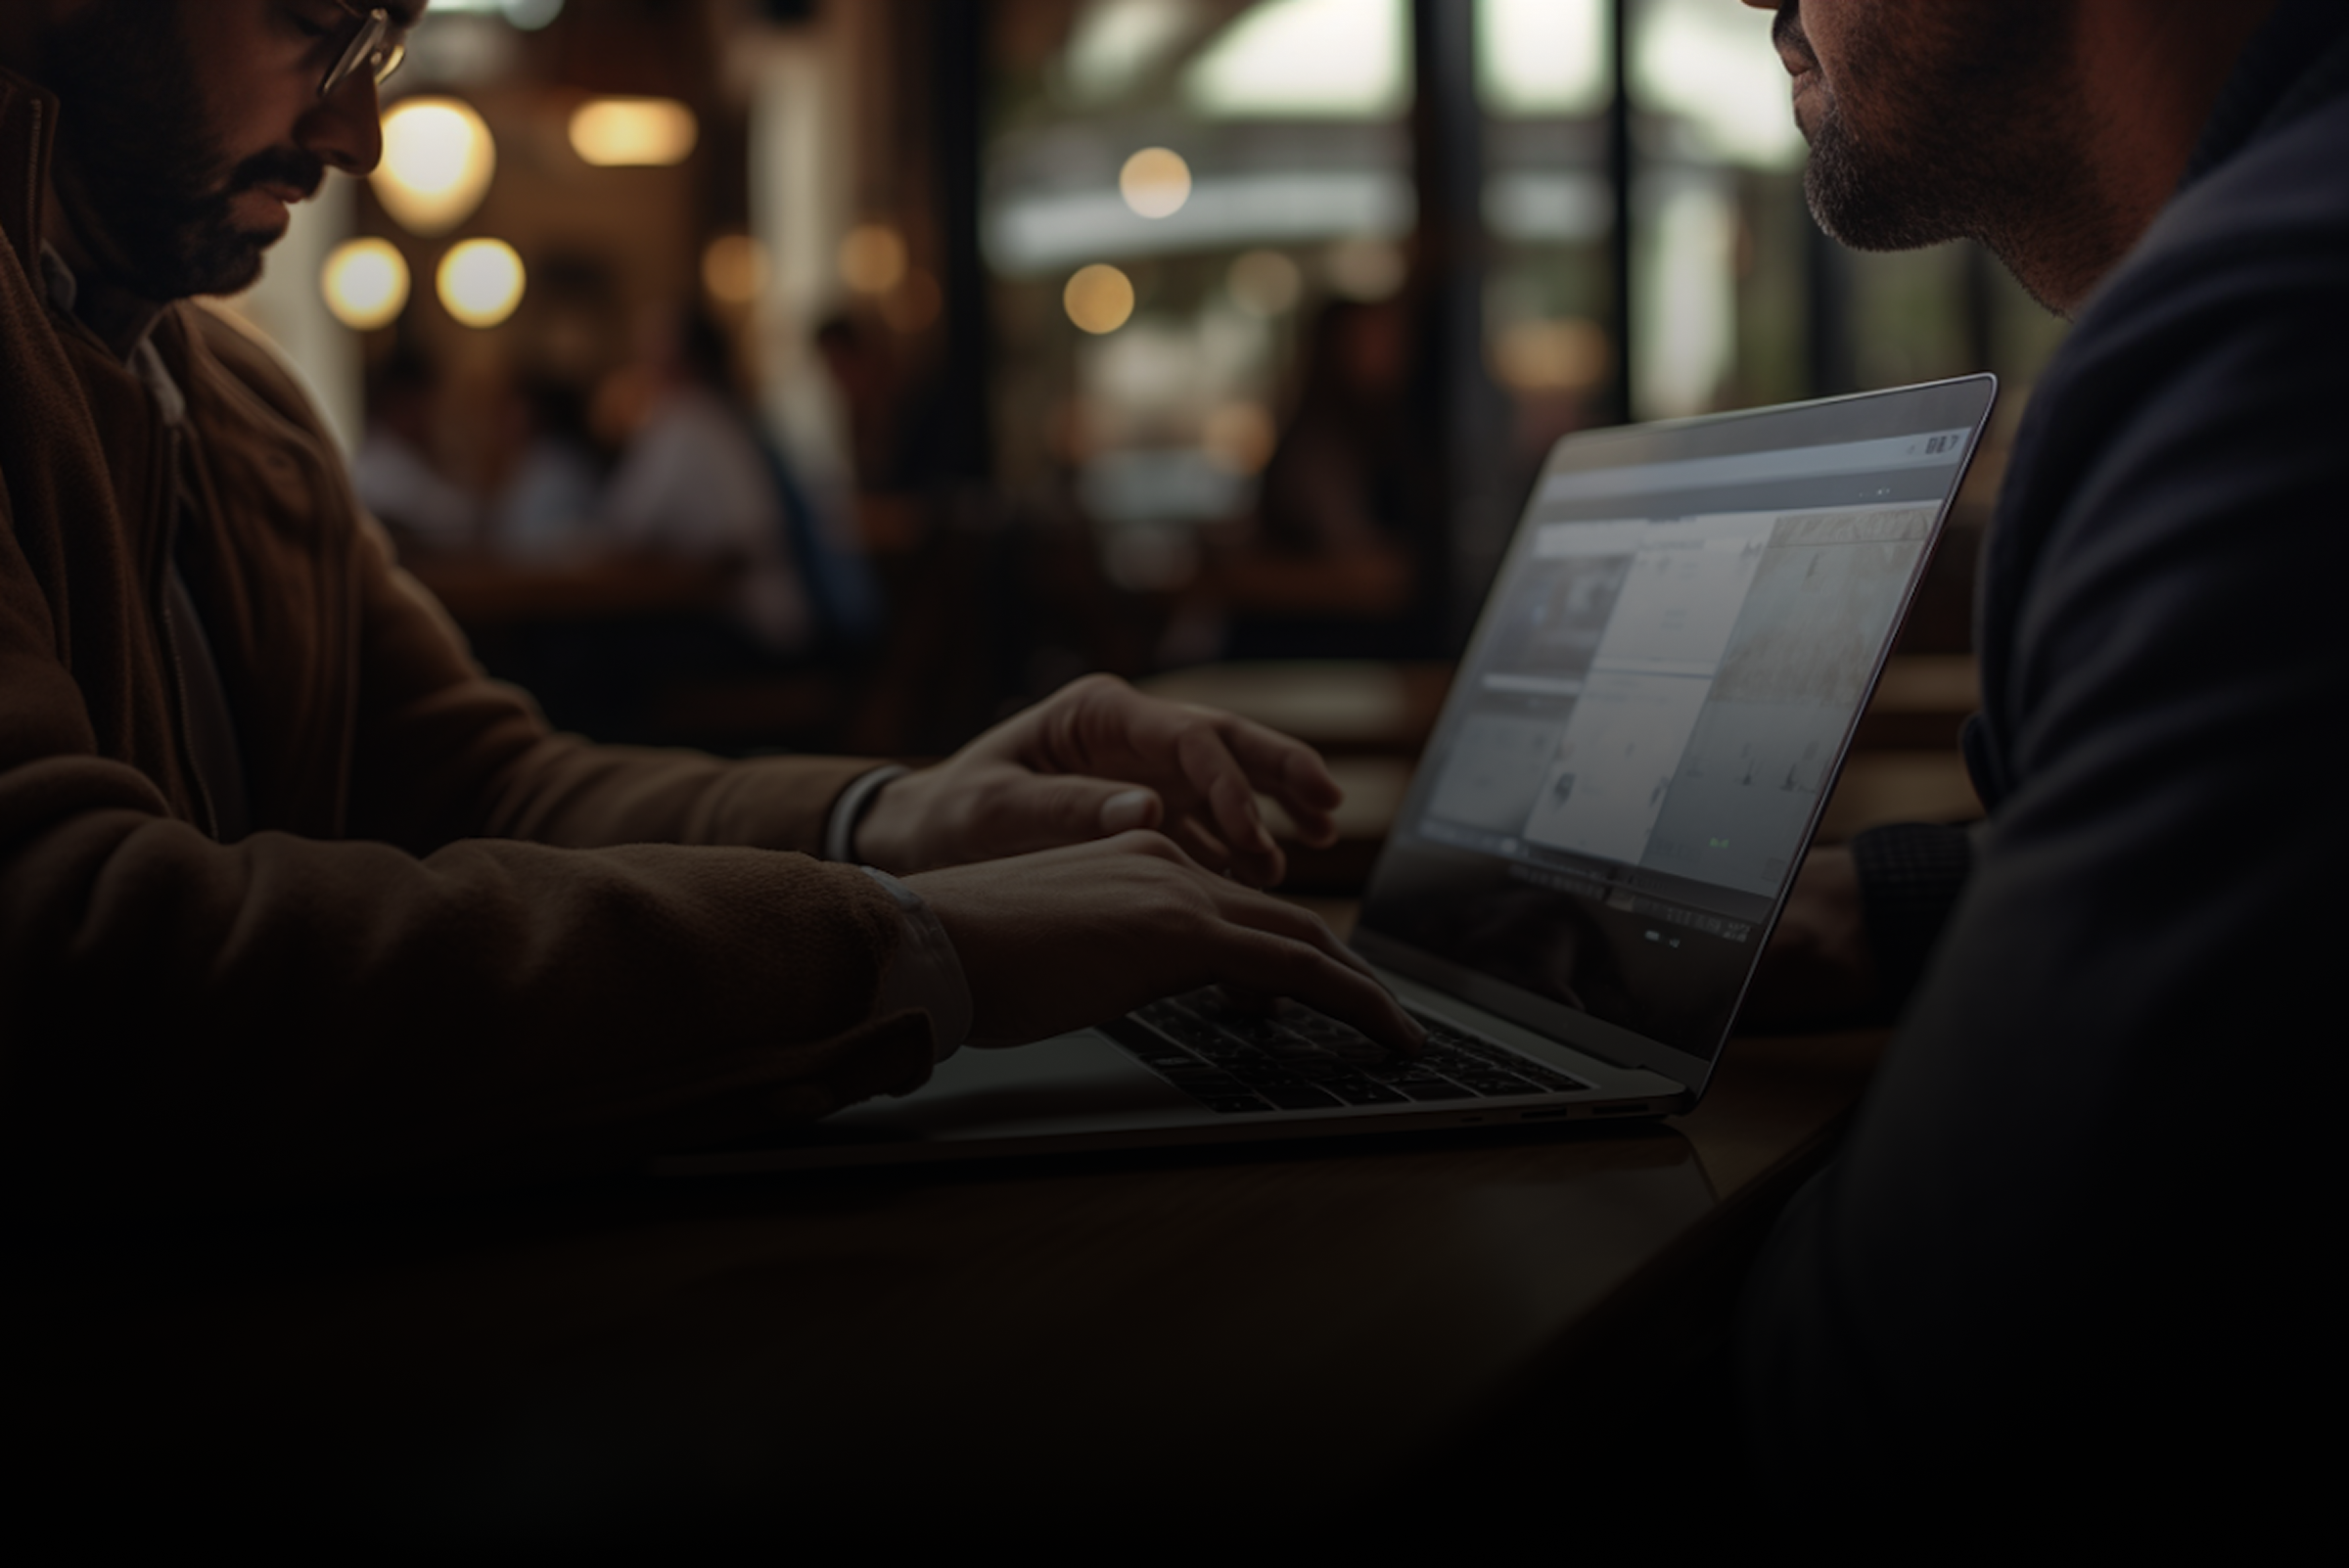
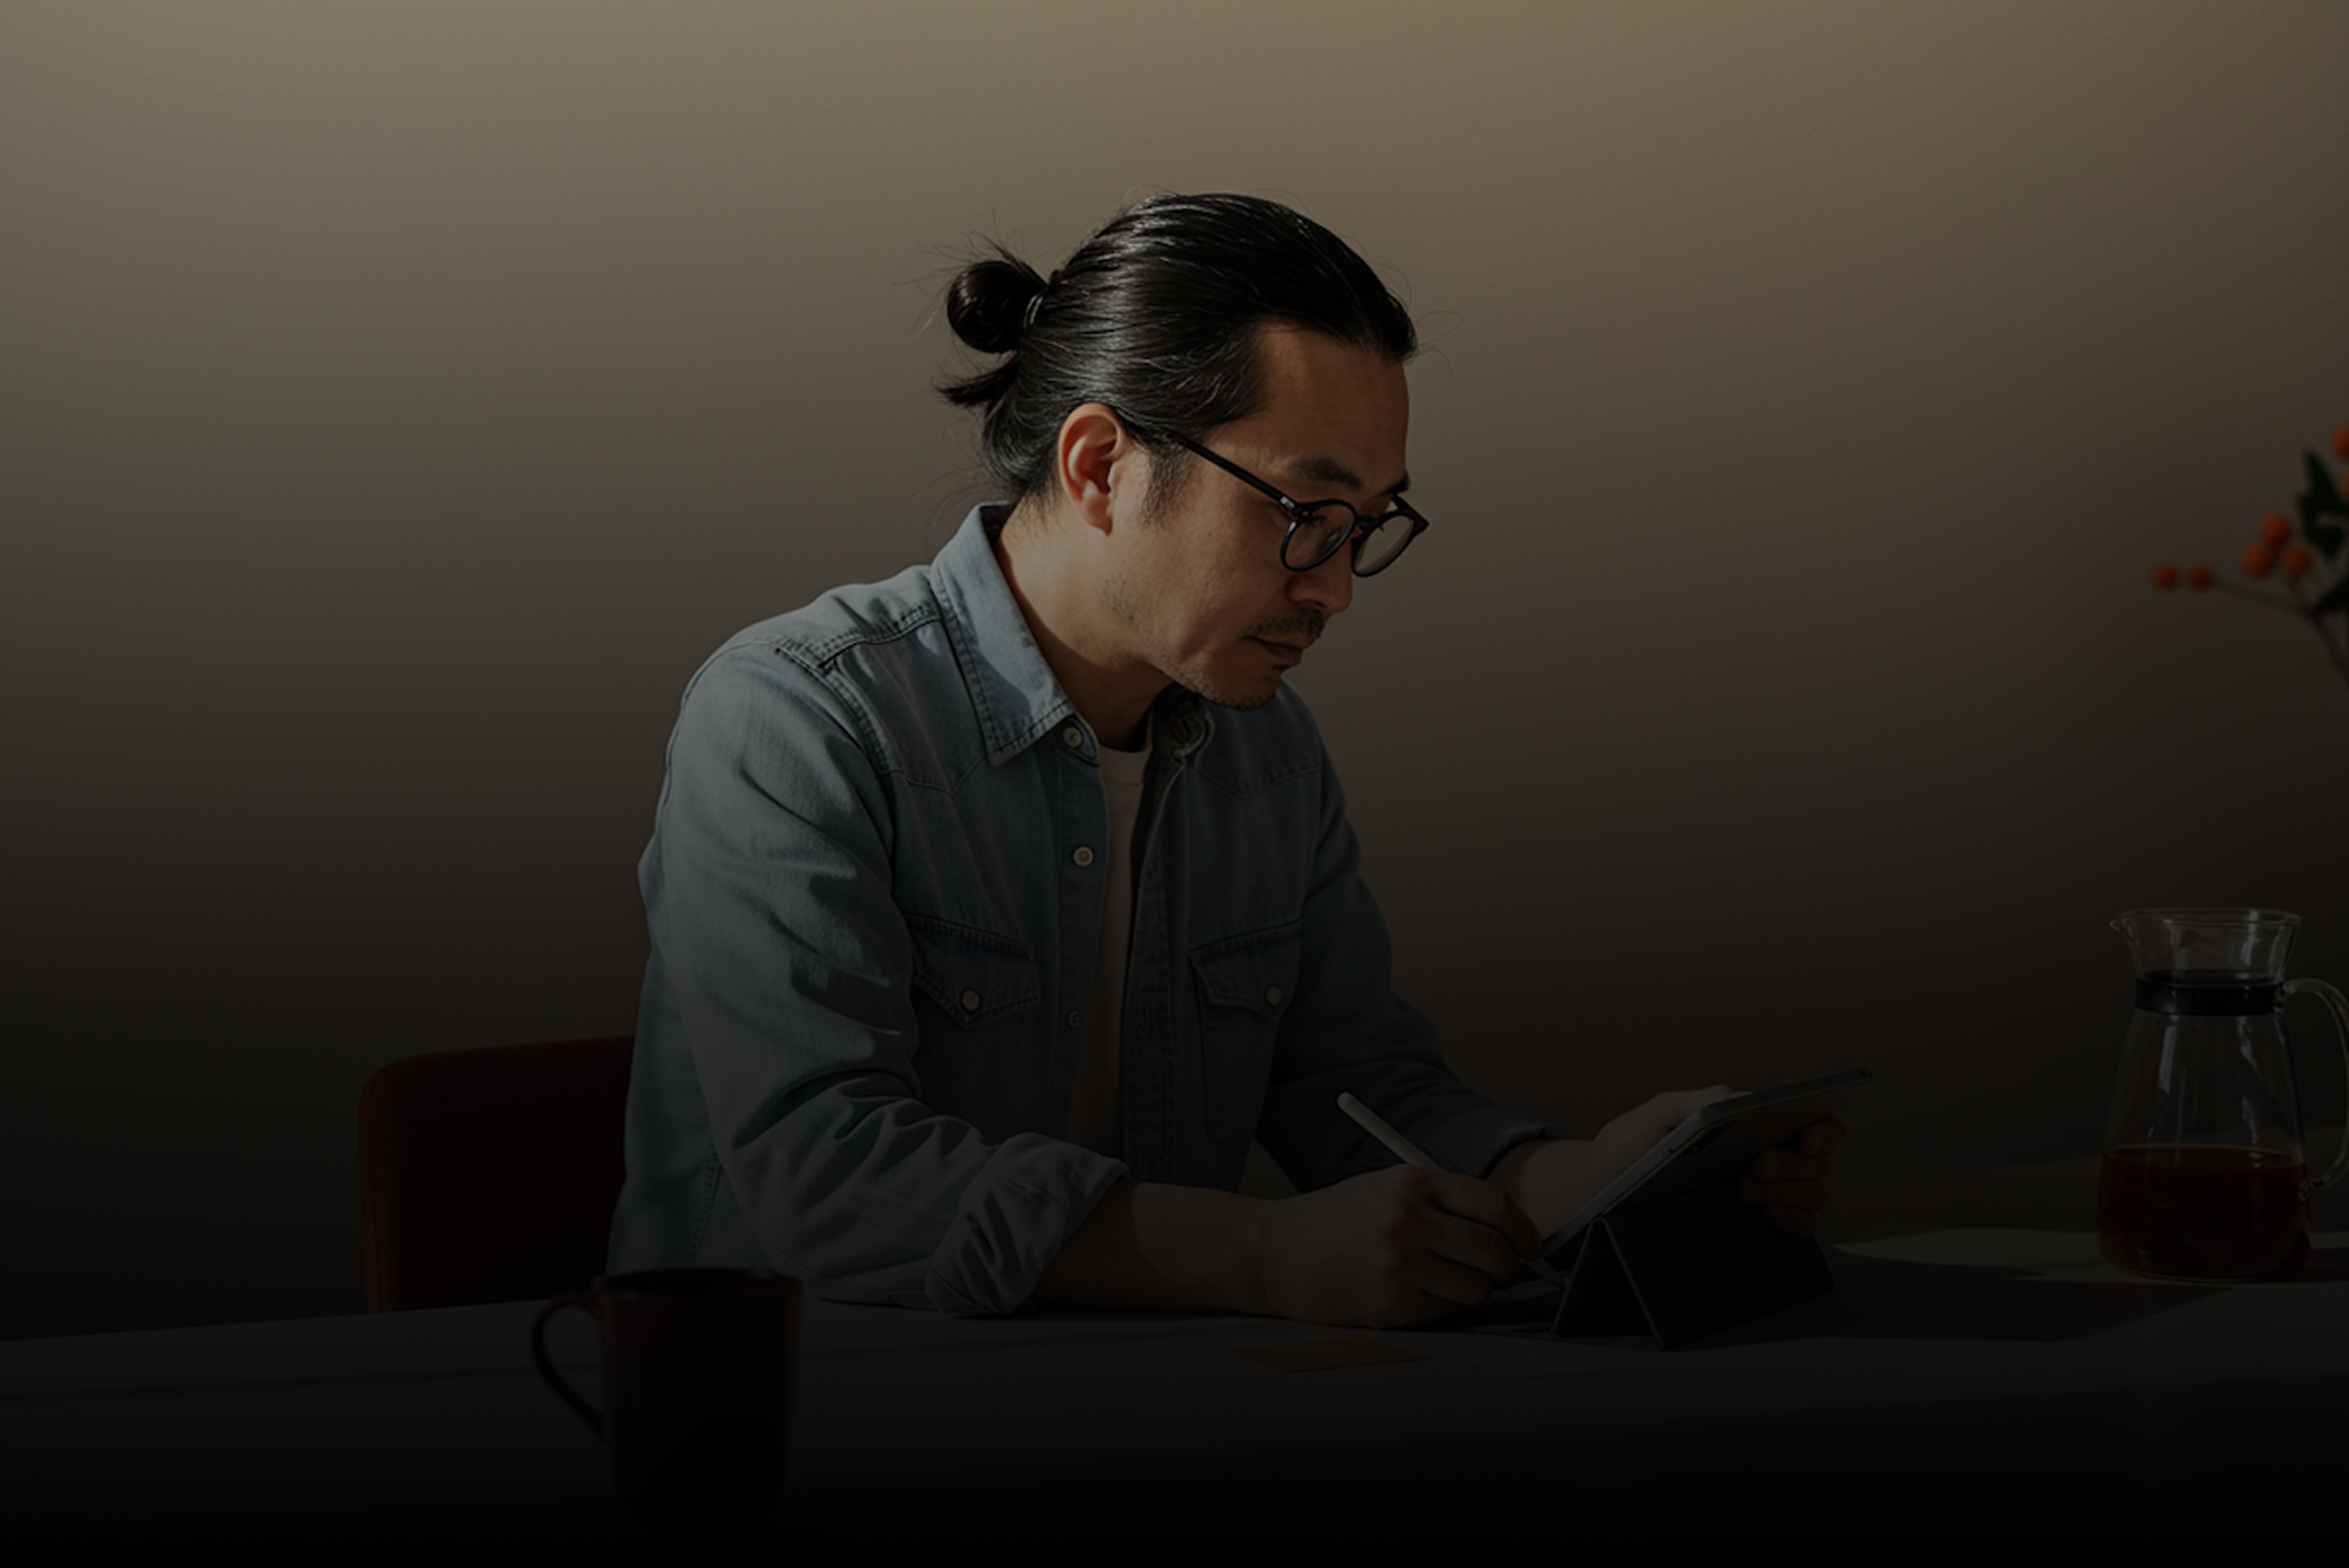
fixed image header bug

diff --git a/src/components/sections/Testimonial.jsx b/src/components/sections/Testimonial.jsx
@@ -5,7 +5,15 @@ import ImagePlaceholder from '../ui/ImagePlaceholder'
 import { getTestimonialProgressTransition, testimonialSlideTransition } from '@/motion'
 import { testimonials } from '../../data/testimonial'
 import { cn } from '@/lib/cn'
-import { focusRing, sectionPy, stackGapContent, testimonialImage } from '@/lib/sectionStyles'
+import { focusRing, gridGapLg, sectionPy, testimonialImage } from '@/lib/sectionStyles'
+
+const testimonialLayout = cn(
+  'flex flex-col',
+  gridGapLg,
+  'lg:flex-row lg:items-stretch',
+)
+const testimonialImageCol = 'w-full lg:w-5/12 lg:max-w-[480px] lg:shrink-0'
+const testimonialContentCol = 'flex min-w-0 flex-1 flex-col gap-6 md:gap-7 lg:justify-between'
 
 const tabButtonClass = cn('flex-1 cursor-pointer rounded-full py-2.5 sm:py-3', focusRing)
 const progressFillClass = 'pointer-events-none absolute inset-0 rounded-full bg-olive-500'
@@ -73,18 +81,33 @@ export default function Testimonial() {
   return (
     <section aria-labelledby="testimonial-heading" className={cn('bg-olive-100', sectionPy)}>
       <Container>
-        <div className={cn('flex flex-col', stackGapContent)}>
-          <AnimatePresence mode="wait">
-            <Slide id={active.id}>
-              <ImagePlaceholder capTabletHeight={false} src={active.image} label={active.imageLabel} className={testimonialImage} />
-            </Slide>
-          </AnimatePresence>
-          <AnimatePresence mode="wait">
-            <Slide id={active.id} slideY>
-              <TestimonialSlide item={active} />
-            </Slide>
-          </AnimatePresence>
-          <TestimonialProgress items={testimonials} activeId={activeId} progressKey={progressKey} onSelect={select} onComplete={next} />
+        <div className={testimonialLayout}>
+          <div className={testimonialImageCol}>
+            <AnimatePresence mode="wait">
+              <Slide id={active.id}>
+                <ImagePlaceholder
+                  capTabletHeight={false}
+                  src={active.image}
+                  label={active.imageLabel}
+                  className={testimonialImage}
+                />
+              </Slide>
+            </AnimatePresence>
+          </div>
+          <div className={testimonialContentCol}>
+            <AnimatePresence mode="wait">
+              <Slide id={active.id} slideY>
+                <TestimonialSlide item={active} />
+              </Slide>
+            </AnimatePresence>
+            <TestimonialProgress
+              items={testimonials}
+              activeId={activeId}
+              progressKey={progressKey}
+              onSelect={select}
+              onComplete={next}
+            />
+          </div>
         </div>
       </Container>
     </section>

diff --git a/src/data/hero.js b/src/data/hero.js
@@ -7,6 +7,5 @@ export const heroContent = {
     { label: 'Pricing', href: '#pricing' },
   ],
   imageLabel: 'Corporate team reviewing strategic initiatives together',
-  backgroundImage:
-    'src/assets/hero2.png',
+  backgroundImage: new URL('../assets/hero.png', import.meta.url).href,
 }

diff --git a/src/lib/sectionStyles.js b/src/lib/sectionStyles.js
@@ -25,7 +25,7 @@ export const pricingCardLast =
   'md:col-span-2 md:mr-auto md:w-full md:max-w-[calc((100%-0.5rem)/2)] lg:col-span-1 lg:max-w-none'
 
 export const testimonialImage =
-  'aspect-[3/4] w-full rounded-md object-top max-md:max-h-[300px] md:mr-auto md:aspect-auto md:h-[450px] md:max-w-[480px]'
+  'aspect-[3/4] w-full rounded-md object-cover object-top max-md:max-h-[300px] md:mx-auto md:aspect-auto md:h-[450px] md:max-w-[480px] lg:mx-0 lg:h-full lg:min-h-[450px] lg:max-h-[560px] lg:max-w-none'
 
 export const headingH2 =
   'text-2xl font-semibold tracking-normal text-gray-900 sm:text-3xl lg:text-4xl'